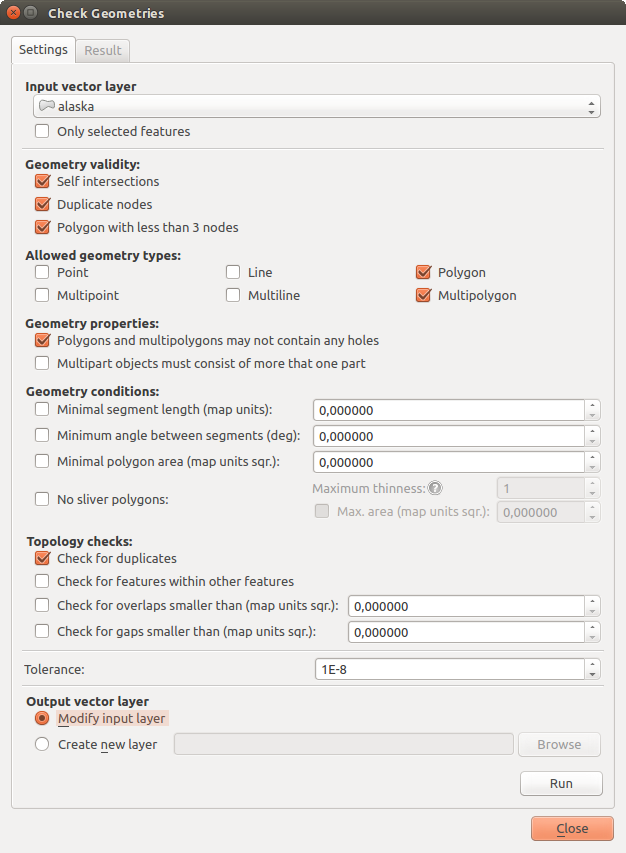
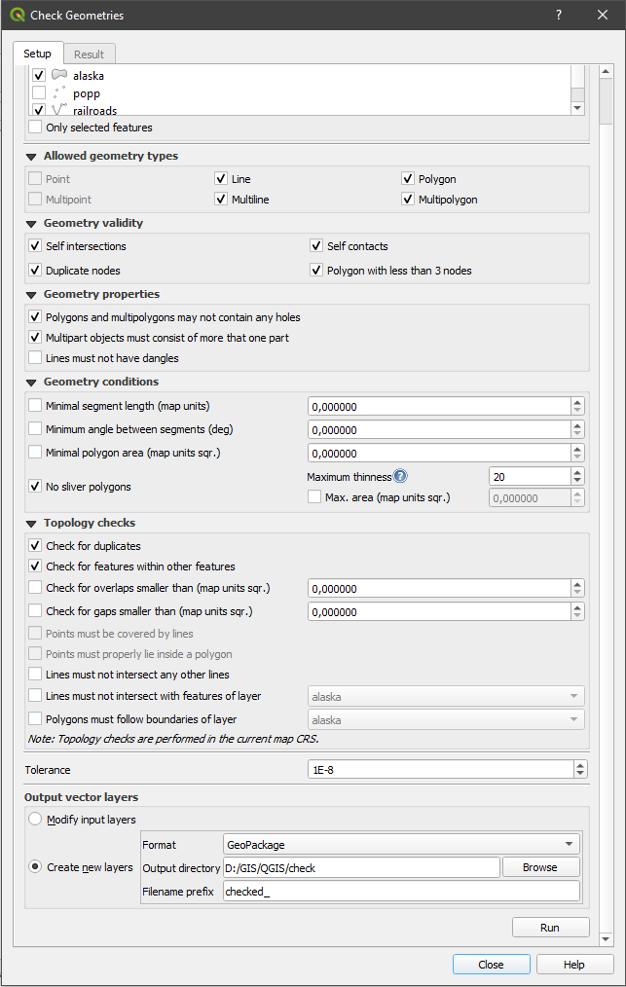
Geometry checker updates (#3120)
* Update source/docs/user_manual/plugins/plugins_geometry_checker.rst

* 02

* 02

* better GUI conventions (part1)

* icon added

* Add files via upload

* Update substitutions.txt

* adding icons and cut/paste in the second tab explanation

* some typo fixing

* Delete check_geometries.png

* Add files via upload

* Delete check_geometries.png

* Add files via upload

* restoring part 2

* havatv  suggestions

Changed region(s): [[0.0, 0.0, 1.0, 1.0], [0.4856, 0.2438, 0.8195, 0.3658]]

diff --git a/source/docs/user_manual/plugins/plugins_geometry_checker.rst b/source/docs/user_manual/plugins/plugins_geometry_checker.rst
@@ -11,38 +11,46 @@ Geometry Checker Plugin
 =======================
 
 Geometry Checker is a powerful core plugin to check and fix the geometry
-validity of a layer. The :guilabel:`Geometry Checker` dialog show
-different grouped settings in the first tab (:guilabel:`Settings`):
+validity of a layer. It is available from the :menuselection:`Vector -->`
+|geometryChecker| :menuselection:`Geometry Checker` menu.
 
-* :guilabel:`Input vector layer`: to select the layer to check. A |checkbox|
-  :guilabel:`Only selected features` checkbox can filter the geometry to the
-  one selected.
-* :guilabel:`Geometry validity`: give to the user the choice between
-  :guilabel:`Self intersections`, :guilabel:`Duplicate nodes`,
-  :guilabel:`Polygon with less than 3 nodes`.
+The :guilabel:`Geometry Checker` dialog show different grouped settings in the
+first tab (:guilabel:`Setup`):
+
+* :guilabel:`Input vector layers`: to select the layers to check. A |checkbox|
+  :guilabel:`Only selected features` checkbox can be used to restrict the
+  checking to the geometries of the selected features.
 * :guilabel:`Allowed geometry types`: to allow only some geometry types like
   point, multipoint, line, multiline, polygon and multipolygon.
-* :guilabel:`Geometry properties` displays |checkbox| `Polygons and
-  multipolygons may not contain any holes` and |checkbox| :guilabel:`Multipart
-  objects must consist of more than one part`.
+* :guilabel:`Geometry validity`: depending on geometry types, the user can
+  choose |checkbox| :guilabel:`Self intersections`, |checkbox|
+  :guilabel:`Duplicate nodes`, |checkbox| :guilabel:`Self contacts` and
+  |checkbox| :guilabel:`Polygon with less than 3 nodes`.
+* :guilabel:`Geometry properties`: depending on geometry types, the user can
+  choose |checkbox| :guilabel:`Polygons and multipolygons may not contain any
+  holes`, |checkbox| :guilabel:`Multipart objects must consist of more than one
+  part` and |checkbox| :guilabel:`Lines must not have dangles`.
 * :guilabel:`Geometry conditions`: user can add some condition to validate the
   geometries with a minimal segment length, a minimum angle between segment,
   a minimal polygon area and sliver polygons detection.
-* :guilabel:`Topology checks`: checks for duplicates, for features within other
-  features, overlaps smaller than a number, for gaps smaller than a number.
-* :guilabel:`Tolerance`: you can define here the tolerance for the check.
+* :guilabel:`Topology checks`: depending on geometry types, the user can choose
+  |checkbox| :guilabel:`Checks for duplicates`, |checkbox| :guilabel:`Checks
+  for features within other features`, |checkbox| :guilabel:`Checks for
+  overlaps smaller than` |selectNumber|, |checkbox| :guilabel:`Checks
+  for gaps smaller than` |selectNumber|, |checkbox| :guilabel:`Points
+  must be covered by lines`, |checkbox| :guilabel:`Points must properly lie
+  inside a polygon`, |checkbox| :guilabel:`Lines must not intersect any other
+  lines`, |checkbox| :guilabel:`Lines must not intersect with features of
+  layer` |selectString|, |checkbox| :guilabel:`Polygons must follow boundaries
+  of layer` |selectString|.
+* :guilabel:`Tolerance`: you can define the tolerance of the check in map layer
+  units.
 * :guilabel:`Output vector layer` gives the choice to the user how get the
   result between modify the current layer and create a new layer.
 
-After you are happy with the configuration, you can click on the **[Run]** button.
+When you are happy with the configuration, you can click on the **[Run]**
+button.
 
-The results appear in the second tab and as an overview layer of the errors in
-the canvas (its name is *checker*). A table list the :guilabel:`geometry check
-result` with one error by row: the first row is an ID, the second the reason of
-the error, then the coordinates of the error, a value (depending on the type of
-the error) and finally the resolution column which indicates the resolution of
-the error. At the bottom of this table, you can export the error into a
-shapefile. At the left, you have the number of the errors and the fixed errors.
 
 .. _figure_geometry_checker:
 
@@ -50,6 +58,7 @@ shapefile. At the left, you have the number of the errors and the fixed errors.
    :align: center
 
    The Geometry Checker Plugin
+
 
 The *Geometry Checker Plugin* can find the following errors:
 
@@ -73,23 +82,35 @@ The following figure shows the different checks made by the plugin.
 .. figure:: img/geometry_checker_scheme.png
    :align: center
 
-   The Differents checks supported by the plugin
+   Some checks supported by the plugin
 
-You can select a row to see the localisation of the error. You can change this
-behaviour by selecting another action between :guilabel:`error` (default),
-:guilabel:`Feature`, :guilabel:`Don't move`, and |checkbox| `Highlight contour
-of selected features`.
+The results appear in the second tab (:guilabel:`Result`) and as an overview
+layer of the errors in the canvas (its name has the default prefix
+:file:`checked_`).
+A table lists the :guilabel:`Geometry check result` with one error per row and
+columns containing: the layer name, an ID, the error type, then the coordinates
+of the error, a value (depending on the type of the error) and finally the
+resolution column which indicates the resolution of the error.
+At the bottom of this table, you can **[Export]** the error into different file
+formats. You also have a counter with the number of total errors and fixed ones.
 
-Below the zoom action when clicking on the table row, you can :guilabel:`Show
-the selected features in attribute table`, :guilabel:`Fix selected errors using
-default resolution` and :guilabel:`Fix selected errors, prompt for resolution
-method`. In the latter, you will see a window to choose the resolution's method
-among which:
+You can select a row to see the location of the error. You can change this
+behaviour by selecting another action between |radioButtonOn| :guilabel:`Error`
+(default), |radioButtonOff| :guilabel:`Feature`, |radioButtonOff|
+:guilabel:`Don't move`, and |checkbox| :guilabel:`Highlight contour of selected
+features`.
+
+Below the zoom action when clicking on the table row, you can:
+|featureInTable| :guilabel:`Show selected features in attribute table`,
+|success| :guilabel:`Fix selected errors using default resolution` and
+|success| :guilabel:`Fix selected errors, prompt for resolution method`.
+In the latter you will see a window to choose the resolution's method among
+which:
 
 * Merge with neighboring polygon with longest shared edge,
 * Merge with neighboring polygon with largest area,
-* Merge with neighboring polygon identical attribute value,if any, or leave
-  as it
+* Merge with neighboring polygon with identical attribute value, if any, or
+  leave as is
 * Delete feature
 * No action
 
@@ -98,9 +119,9 @@ among which:
    You can fix multiple errors by selecting more than one row in the table with
    the *CTRL + click* action.
 
-The default action could be changed with the last icon :guilabel:`Error
-resolution settings`. For some type of errors, you can change the default
-action between some specific action or :guilabel:`No action`.
+The default action can be changed with the last icon |options| :guilabel:`Error
+resolution settings` For some type of errors, you can change the default action
+between some specific action or :guilabel:`No action`.
 
 Finally, you can choose which :guilabel:`attribute to use when merging features
 by attribute value`.
@@ -114,4 +135,18 @@ by attribute value`.
 
 .. |checkbox| image:: /static/common/checkbox.png
    :width: 1.3em
+.. |featureInTable| image:: /static/common/mActionFromSelectedFeature.png
+   :width: 1em
+.. |geometryChecker| image:: /static/common/geometrychecker.png
+   :width: 1.5em
+.. |options| image:: /static/common/mActionOptions.png
+   :width: 1em
+.. |radioButtonOff| image:: /static/common/radiobuttonoff.png
+.. |radioButtonOn| image:: /static/common/radiobuttonon.png
+.. |selectNumber| image:: /static/common/selectnumber.png
+   :width: 2.8em
+.. |selectString| image:: /static/common/selectstring.png
+   :width: 2.5em
+.. |success| image:: /static/common/mIconSuccess.png
+   :width: 1em
 .. |updatedisclaimer| replace:: :disclaimer:`Docs in progress for 'QGIS testing'. Visit http://docs.qgis.org/2.18 for QGIS 2.18 docs and translations.`
